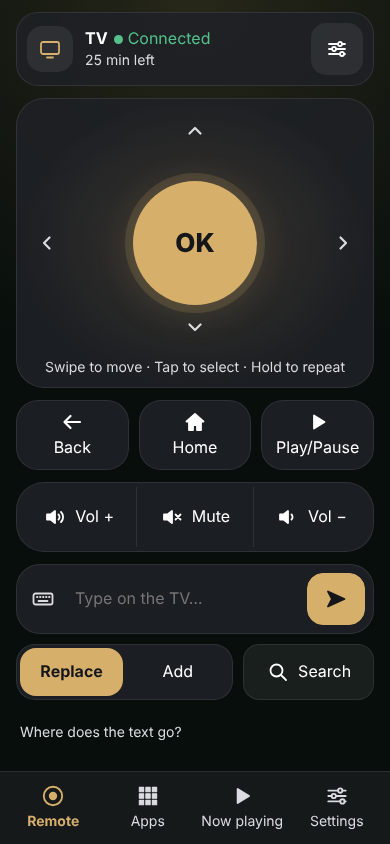
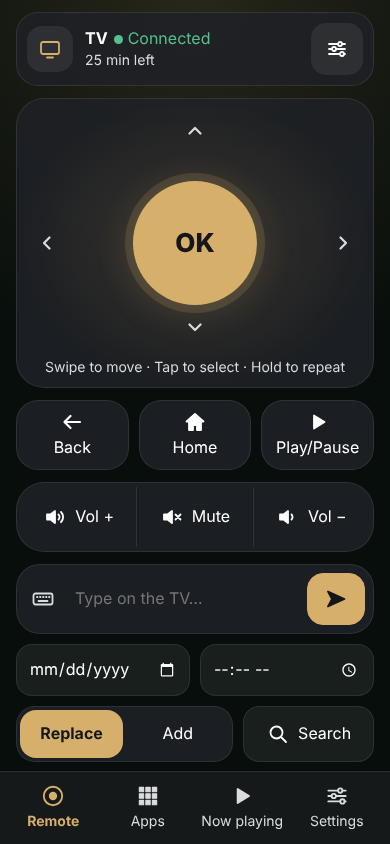
Phone page: the quick-settings header wraps on a narrow phone (four links no longer push the English page wider than 360 px)

diff --git a/android/launcher/src/main/assets/phone/index.en.html b/android/launcher/src/main/assets/phone/index.en.html
@@ -65,7 +65,7 @@ input[type=range]{padding:0;border:0;background:none;accent-color:var(--gold)}
 .ic{width:46px;height:46px;border-radius:15px;background:var(--tile);color:var(--gold);display:flex;align-items:center;justify-content:center;flex:none;padding:0;border:0}
 .ch{display:flex;align-items:center;gap:12px;margin-bottom:6px}
 .ch h2,.ch p{margin:0}
-.hd{display:flex;align-items:baseline;justify-content:space-between;gap:10px;margin:20px 4px 0}
+.hd{display:flex;flex-wrap:wrap;align-items:baseline;justify-content:space-between;gap:0 10px;margin:20px 4px 0}
 .hd h2{margin:0}
 .h{font-size:24px}
 .lnk{background:none;border:0;color:var(--gt);font-size:15px;min-height:48px;padding:0 6px}

diff --git a/android/launcher/src/main/assets/phone/index.html b/android/launcher/src/main/assets/phone/index.html
@@ -65,7 +65,7 @@ input[type=range]{padding:0;border:0;background:none;accent-color:var(--gold)}
 .ic{width:46px;height:46px;border-radius:15px;background:var(--tile);color:var(--gold);display:flex;align-items:center;justify-content:center;flex:none;padding:0;border:0}
 .ch{display:flex;align-items:center;gap:12px;margin-bottom:6px}
 .ch h2,.ch p{margin:0}
-.hd{display:flex;align-items:baseline;justify-content:space-between;gap:10px;margin:20px 4px 0}
+.hd{display:flex;flex-wrap:wrap;align-items:baseline;justify-content:space-between;gap:0 10px;margin:20px 4px 0}
 .hd h2{margin:0}
 .h{font-size:24px}
 .lnk{background:none;border:0;color:var(--gt);font-size:15px;min-height:48px;padding:0 6px}
